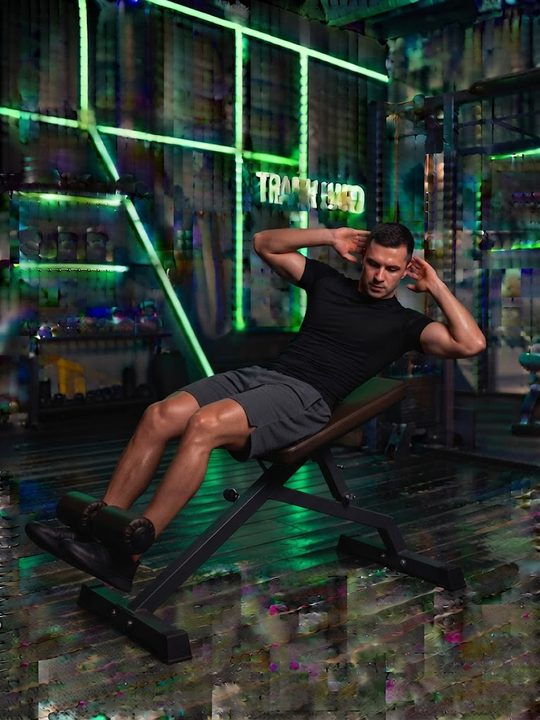
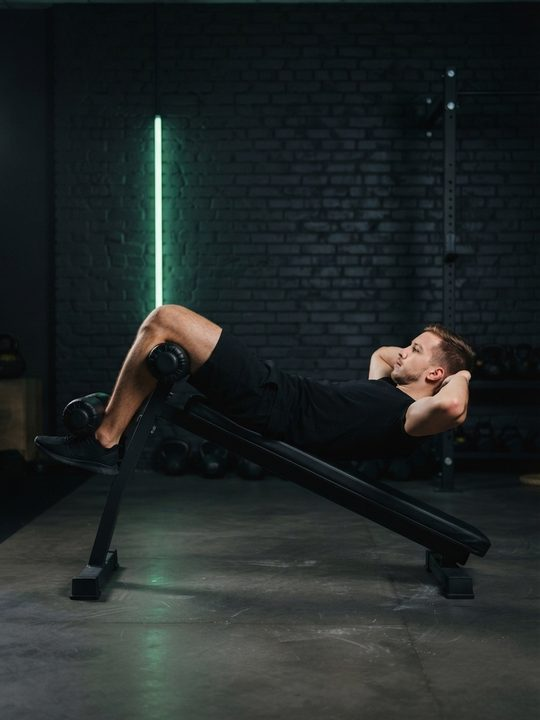
Instruktionsbilder+GIFs: decline_crunch (m/w) via Strichmann-Pose-Referenz
Claude-Session: https://claude.ai/code/session_01PvyiLGJFyas6muFwwubScP

diff --git a/script.js b/script.js
@@ -528,7 +528,7 @@ function renderOverview() {
 // V8-04: Wochenplan-Einträge (haben trainingId) sind anklickbar -> Detailseite mit Dauer/Kalorien.
 // V6-08: Verlauf als Foto-Kacheln mit Wochenkopf, Gruppierung nach Woche/Monat.
 let imgSet = new Set();
-fetch('img/index.json?v=22').then(r => r.json()).then(a => { imgSet = new Set(a); }).catch(() => {});
+fetch('img/index.json?v=23').then(r => r.json()).then(a => { imgSet = new Set(a); }).catch(() => {});
 function slugOf(g) { return (g || '').replace(/^gifs\//, '').replace(/\.gif$/, ''); }
 // Foto passend zum Profil (m/w); ohne Foto -> GIF
 function imgOf(ex) {
